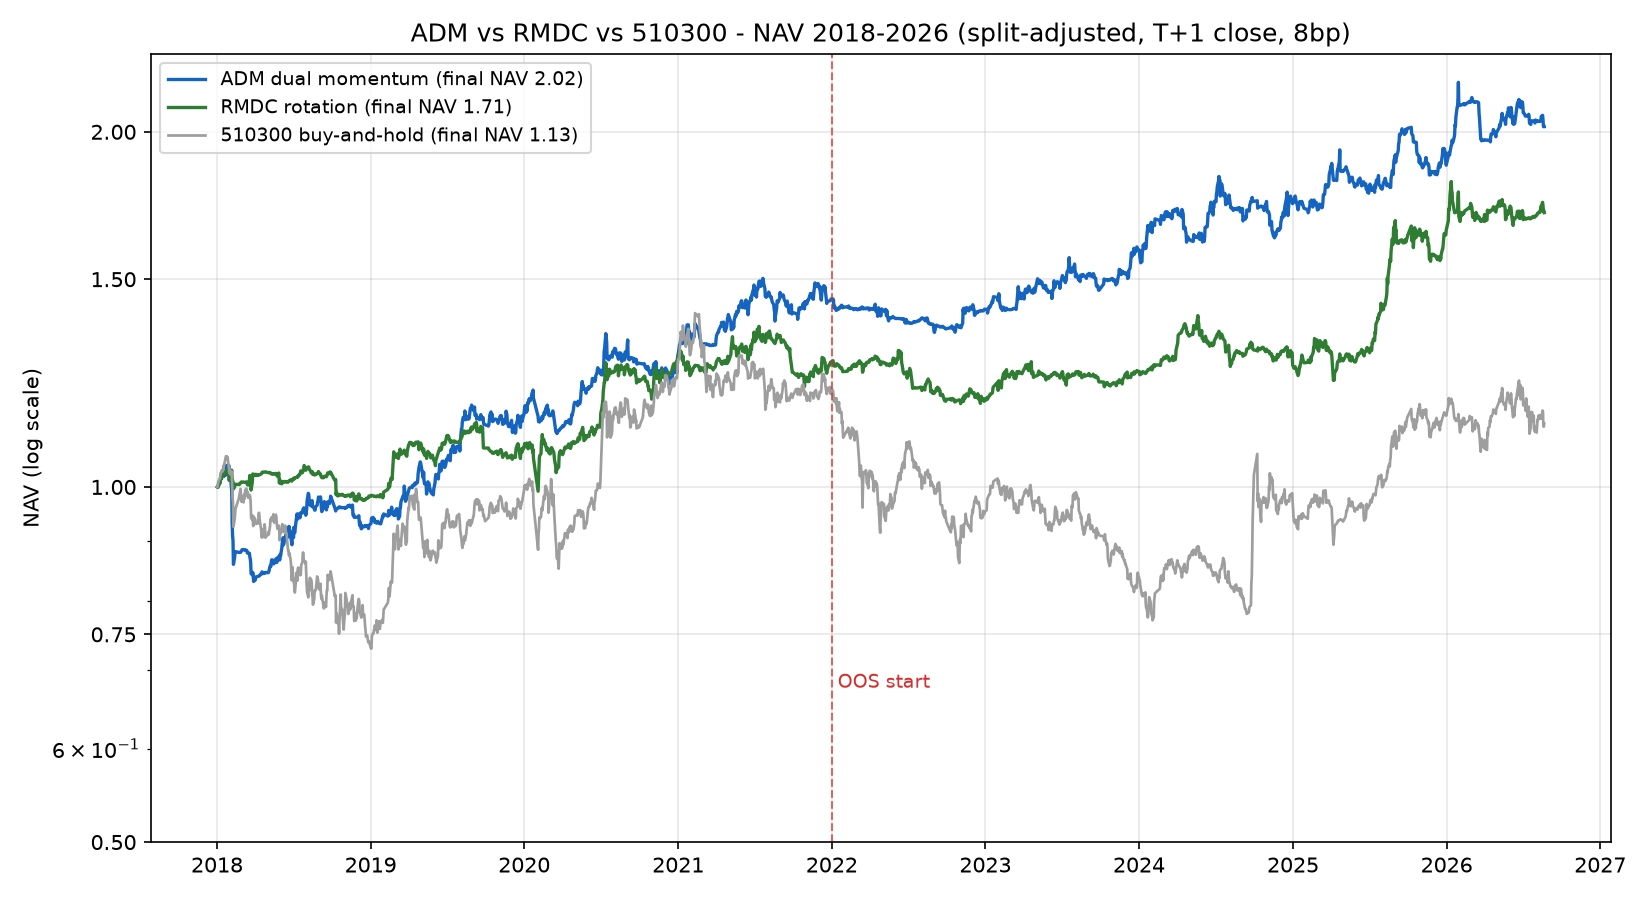
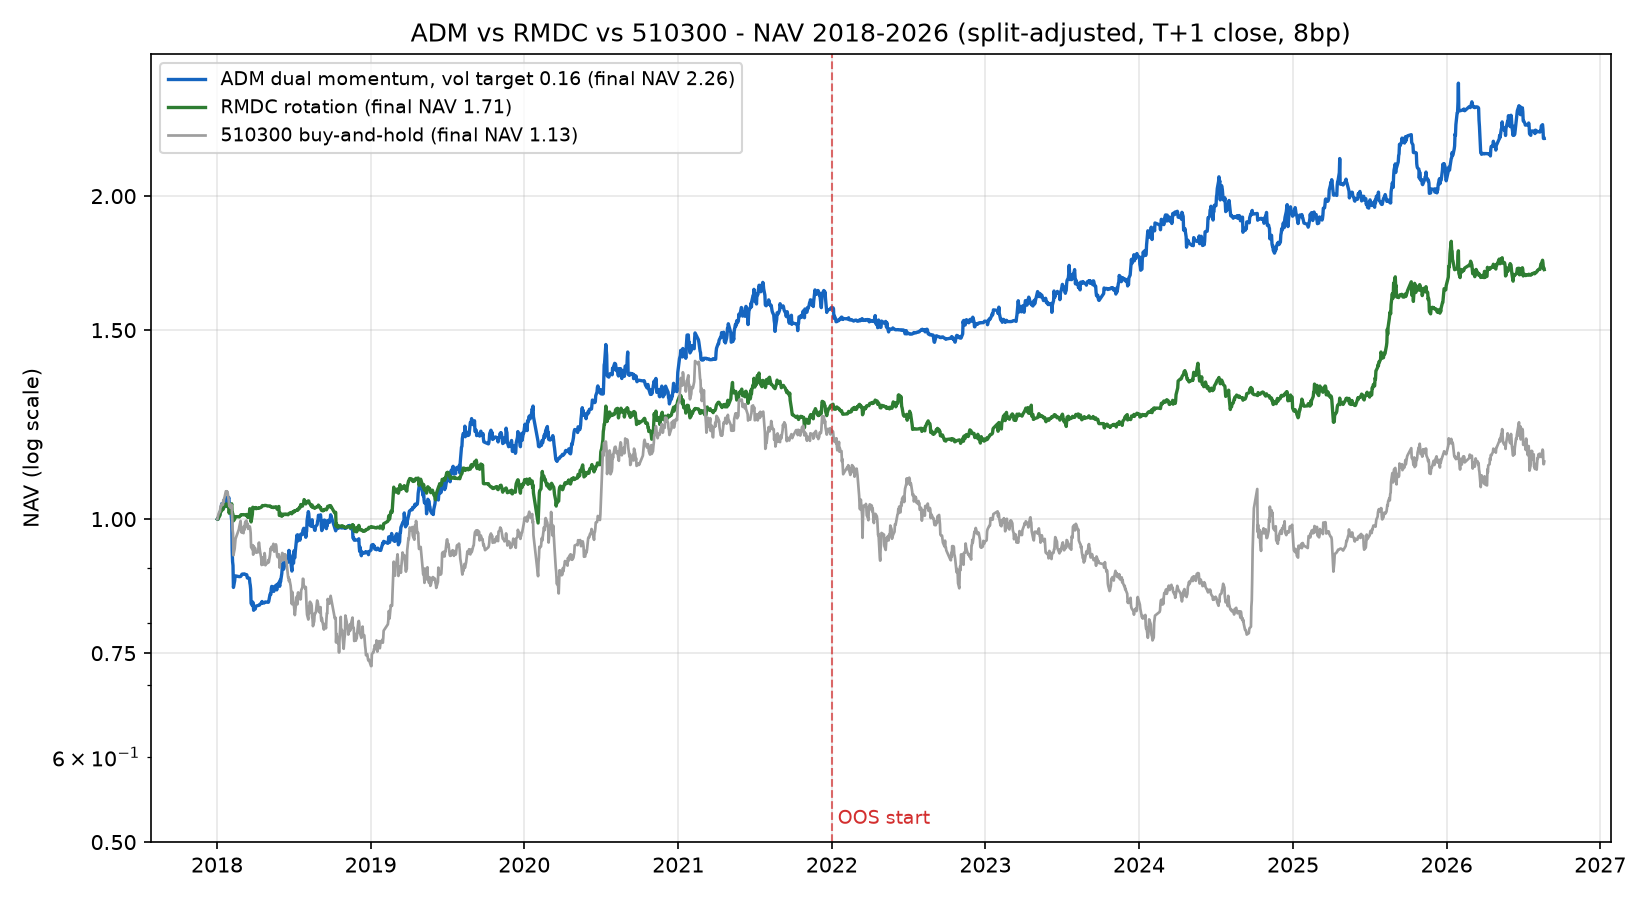
research: track live ADM vol target (0.16) in backtest; refresh report and NAV chart

diff --git a/research/backtest_adm_etf.py b/research/backtest_adm_etf.py
@@ -14,6 +14,7 @@ Does not import PTrade builtins; live trading still requires PTrade.
 """
 from __future__ import print_function
 
+import inspect
 import math
 import os
 import sys
@@ -66,7 +67,8 @@ OOS_START = "2022-01-01"
 MARKET = "510300.SS"
 COST_ONE_WAY = 0.0008
 # Mirrors initialize() in ptrade_adm_etf.py (frozen live parameters).
-VOL_TARGET = 0.12
+# vol target tracks the live build_targets default so the mirror cannot drift.
+VOL_TARGET = inspect.signature(build_targets).parameters["vol_target"].default
 LOCKDOWN_DAYS = 3
 WINDOWS = (
     ("2024-02-01", "2024-02-29"),
